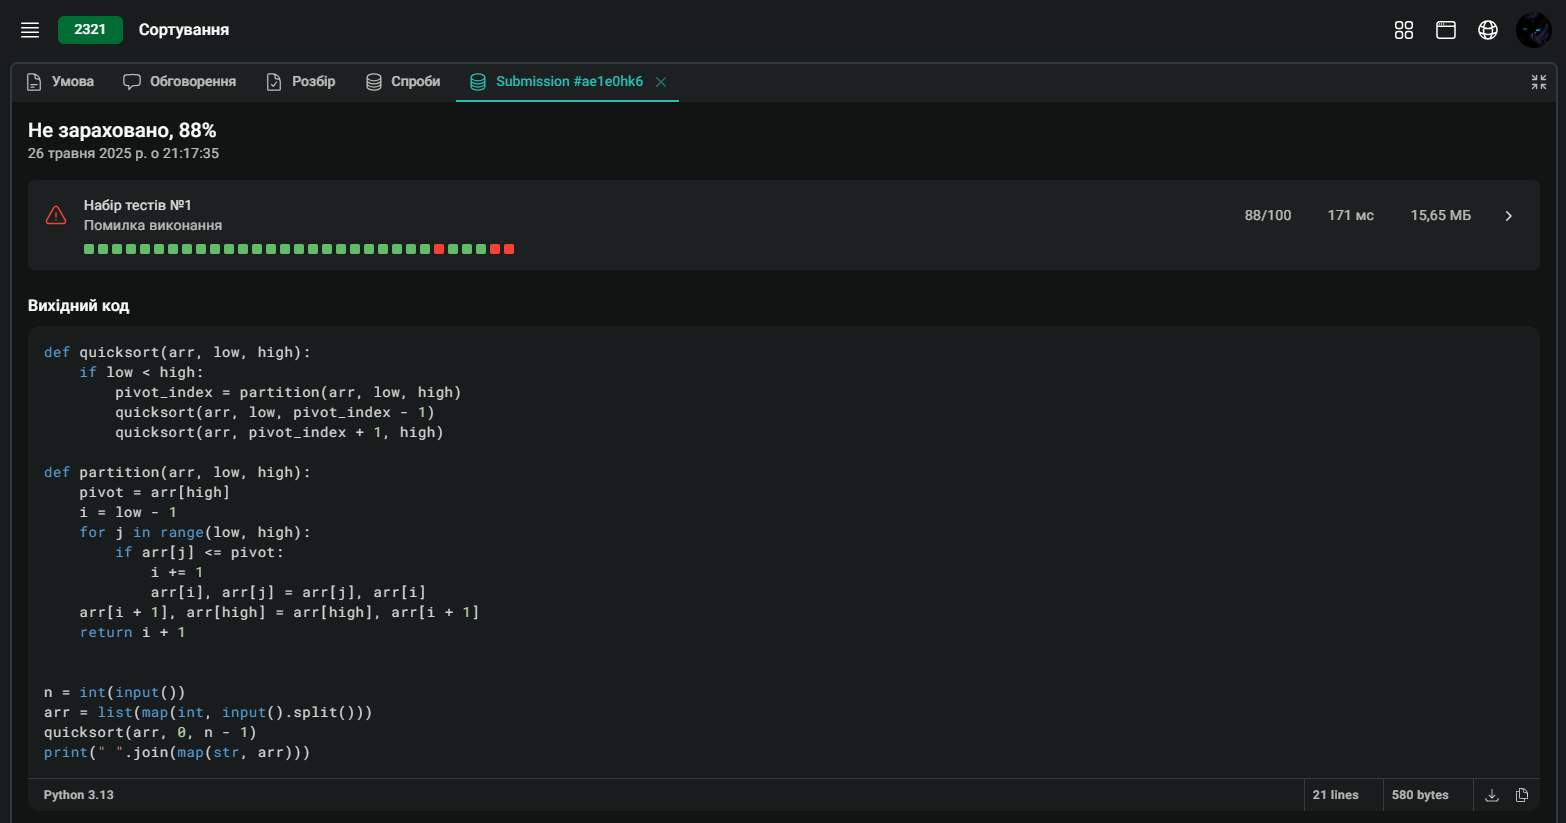
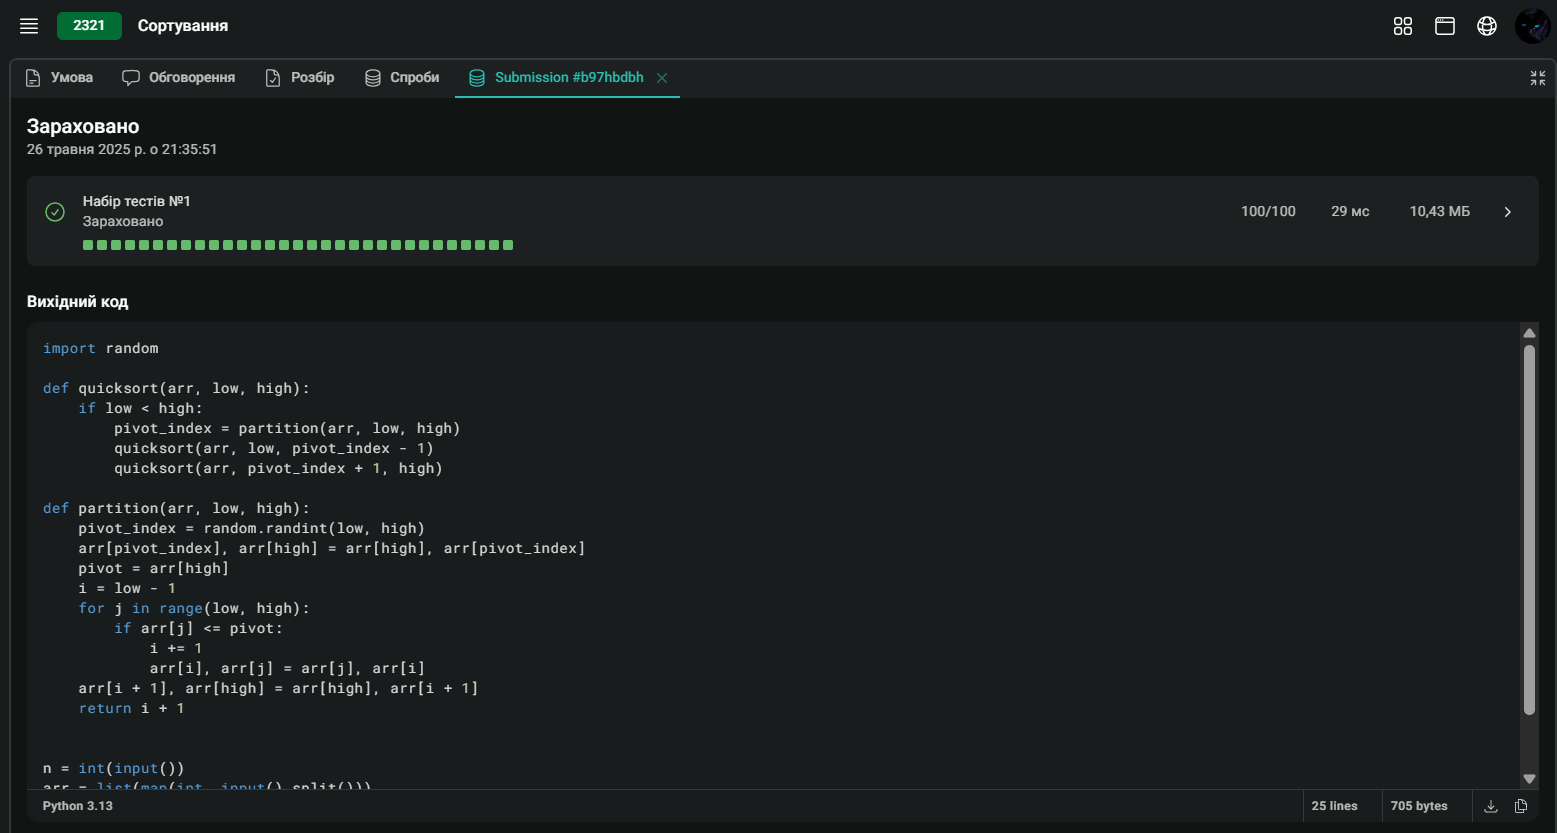
Lab9 r

Changed region(s): [[0.0, 0.0, 1.0, 1.0], [0.8015, 0.243, 0.9557, 0.2734]]

diff --git a/H9/t09_04_e2321.py b/H9/t09_04_e2321.py
@@ -1,3 +1,5 @@
+import random
+
 def quicksort(arr, low, high):
     if low < high:
         pivot_index = partition(arr, low, high)
@@ -5,6 +7,8 @@ def quicksort(arr, low, high):
         quicksort(arr, pivot_index + 1, high)
 
 def partition(arr, low, high):
+    pivot_index = random.randint(low, high)
+    arr[pivot_index], arr[high] = arr[high], arr[pivot_index]
     pivot = arr[high]
     i = low - 1
     for j in range(low, high):
